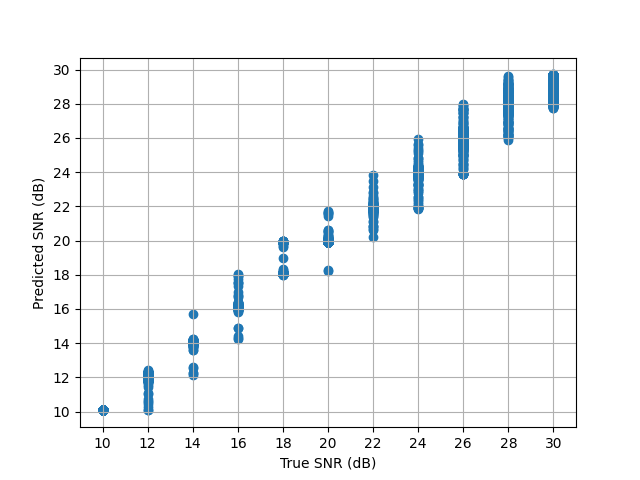
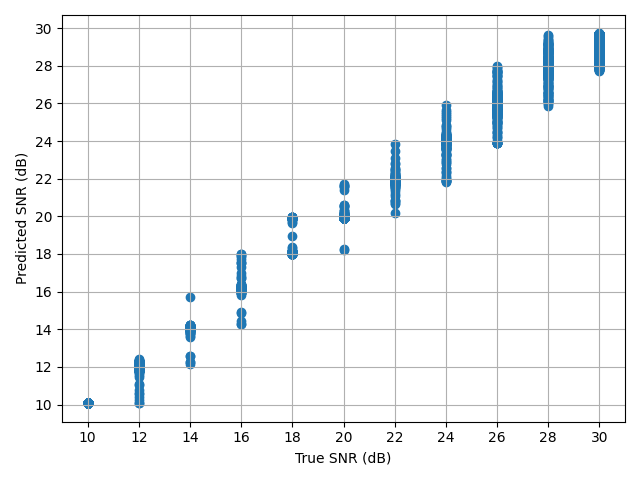
figures

diff --git a/src/eeng645_rudy_finalproject/run_me.py b/src/eeng645_rudy_finalproject/run_me.py
@@ -34,9 +34,7 @@ def main():
 
     DO_PART2 = True
     TRAIN_SNR_ESTIMATOR = False
-    TEST_SNR_ESTIMATOR = False
-
-    DO_PART3 = True
+    TEST_SNR_ESTIMATOR = True
 
     ###########################
     ##### Sim. Parameters #####
@@ -205,9 +203,10 @@ def main():
         cm_mod_class = confusion_matrix(y_pred=y_pred,y_true=y_true)
         plt.figure()
         cm_disp = ConfusionMatrixDisplay(confusion_matrix=cm_mod_class, display_labels=CLASS_LABELS_STR)
-        cm_disp.plot(cmap=plt.cm.Blues, xticks_rotation='vertical')
+        cm_disp.plot(cmap=plt.cm.Blues, xticks_rotation=45)
         cm_save_loc = os.path.join(os.getcwd(),'figures', cm_file_name)
-        plt.savefig(cm_save_loc)
+        plt.tight_layout()
+        plt.savefig(cm_save_loc, pad_inches=6)
         print(f"Part 1 confusion matrix saved to {cm_save_loc}")
 
 
@@ -235,19 +234,15 @@ def main():
             eval_data_pt2 = signals_test_pt2
             snr_true = snrs_test_pt2
             mod_labels = np.array([np.argmax(x) for x in labels_test_pt2])
-            pred_snr_file_name = "pred_snr_test.png"
-            sq_err_file_name = "square_error_test.png"
             test_val_str = "test"
         else:
             eval_data_pt2 = signals_val_pt2
             snr_true = snrs_val_pt2
             mod_labels = np.array([np.argmax(x) for x in labels_val_pt2])
-            pred_snr_file_name = "pred_snr_val.png"
-            sq_err_file_name = "square_error_val.png"
             test_val_str = "val"
 
         # Estimate SNRs
-        snr_preds = snr_estimator_model.predict(signals_val_pt2)
+        snr_preds = snr_estimator_model.predict(eval_data_pt2)
         snr_preds = np.reshape(snr_preds, (snr_preds.shape[0],1))
         sq_error = np.abs(snr_preds - snr_true)**2
 
@@ -314,7 +309,8 @@ def main():
             plt.ylabel("MSE ($dB^2$)")
             plt.show()
             fig_mse_v_true_savepath = os.path.join(savedir, f"snr_mse_{test_val_str}.png")
-            plt.savefig(fig_mse_v_true_savepath)
+            plt.tight_layout()
+            plt.savefig(fig_mse_v_true_savepath, pad_inches=6)
 
             # Predictions Vs True SNR
             plt.figure()
@@ -326,7 +322,8 @@ def main():
             plt.grid(visible=True)
             plt.show()
             fig_pred_v_true_savepath = os.path.join(savedir,f"snr_pred_{test_val_str}.png")
-            plt.savefig(fig_pred_v_true_savepath)
+            plt.tight_layout()
+            plt.savefig(fig_pred_v_true_savepath, pad_inches=6)
 
 
 
